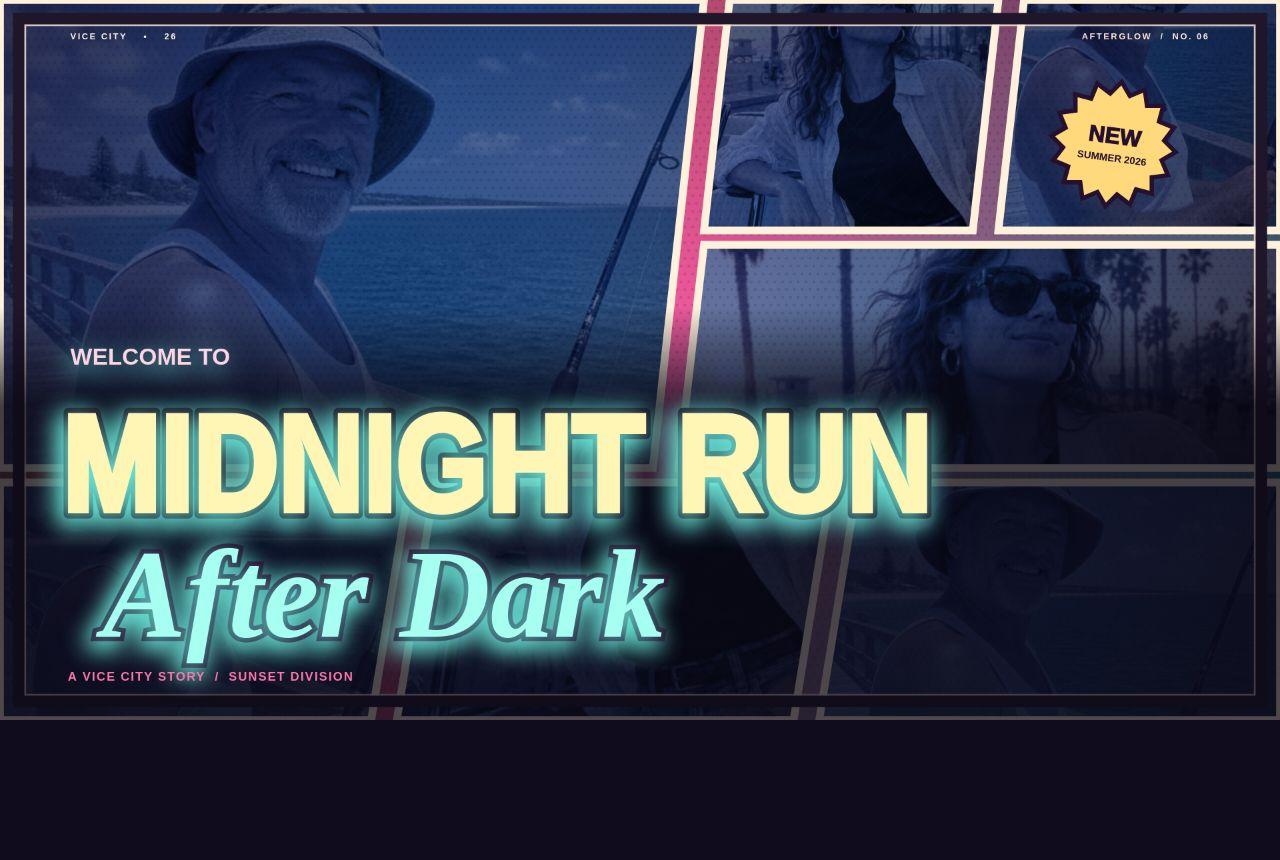
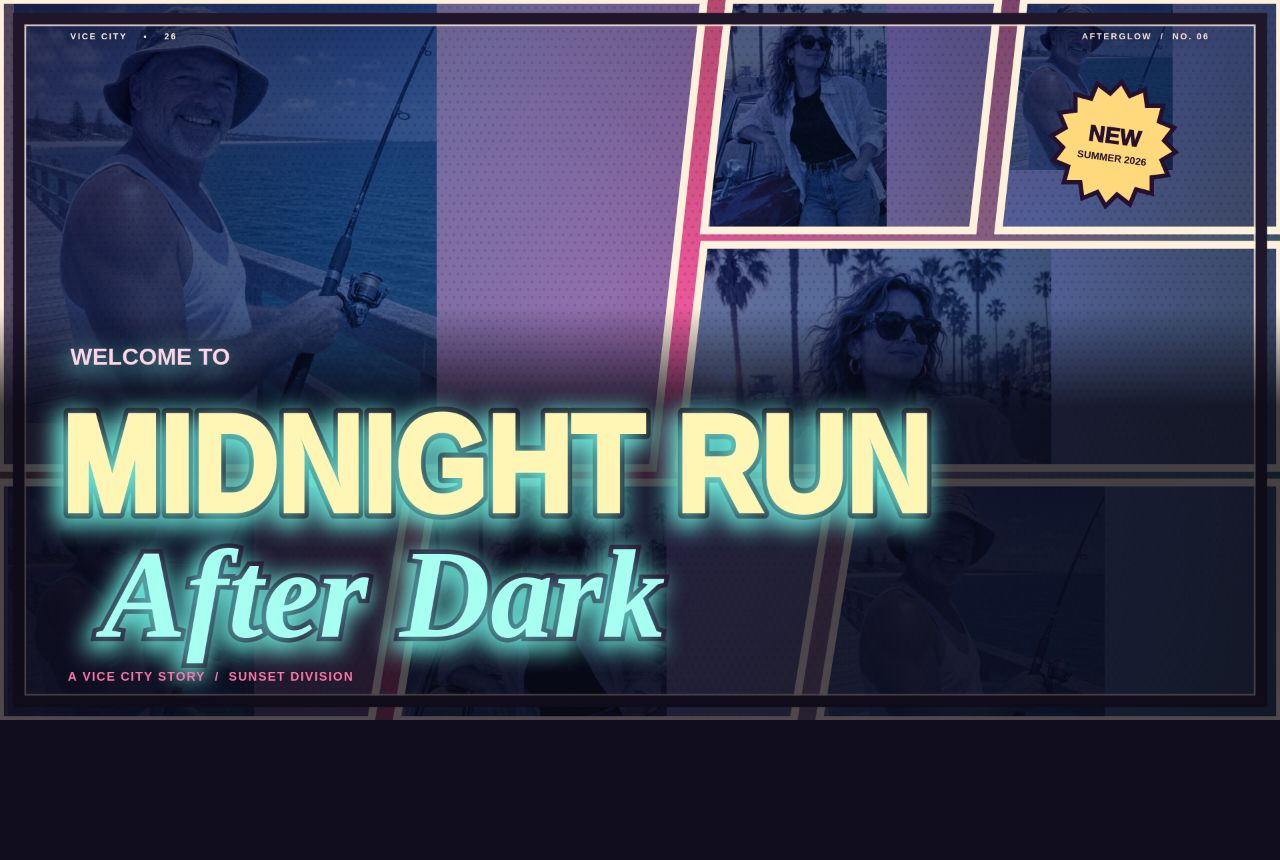
Re-crop fisherman panels so his full face shows

Changed region(s): [[0.0, 0.0, 1.0, 0.4837], [0.4688, 0.5442, 0.625, 0.8163]]

diff --git a/app/src/app.js b/app/src/app.js
@@ -235,7 +235,7 @@ function drawCover() {
   ink.fillRect(0, 0, width, height);
   const points = coverFrames(width, height);
   activeFrame = Math.min(activeFrame, points.length - 1);
-  frames = points.map((shape, index) => frames[index] || { points: shape, photo: index % photos.length, zoom: 1 + (index % 3) * .13, x: 26 + (index * 23) % 52, y: 15 + (index * 31) % 70 });
+  frames = points.map((shape, index) => frames[index] || (index % 2 ? { points: shape, photo: index % photos.length, zoom: .68, x: 5, y: 2 } : { points: shape, photo: index % photos.length, zoom: 1 + (index % 3) * .13, x: 26 + (index * 23) % 52, y: 15 + (index * 31) % 70 }));
   frames.forEach((frame, index) => { frame.points = points[index]; paintPhoto(frame, width, height); });
   posterInk(width, height);
   const edge = Math.min(width, height) * .009;
@@ -426,7 +426,7 @@ async function start() {
   document.querySelector('#badge-toggle').checked = treatment.badge;
   try { photos = await Promise.all(initialPhotos.map(loadPhoto)); } catch { photos = []; }
   if (poster && params.get('photo') === 'pier' && photos.length > 1) {
-    frames = coverFrames(1280, 720).map((points, index) => ({ points, photo: index % 2 ? 0 : 1, zoom: 1.04 + (index % 3) * .18, x: 24 + (index * 29) % 58, y: 14 + (index * 25) % 72, grade: index === Number(params.get('panelGradeIndex')) ? params.get('panelGrade') : undefined }));
+    frames = coverFrames(1280, 720).map((points, index) => ({ points, photo: index % 2 ? 0 : 1, zoom: .60, x: 5, y: 2, grade: index === Number(params.get('panelGradeIndex')) ? params.get('panelGrade') : undefined }));
   }
   const selected = params.get('size');
   if (selected && sizes[selected]) setFormat(selected); else setFormat('landscape');
